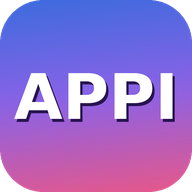
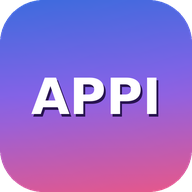
v238 Icono en zona segura: APPI entero en cualquier launcher
- Texto al 68% del ancho: las mascaras agresivas (Moto) ya no cortan la I.
- Regenerados todos los iconos con la misma regla.

Changed region(s): [[0.0625, 0.375, 0.9375, 0.6562]]

diff --git a/index.html b/index.html
@@ -3535,7 +3535,7 @@ body.dark #bootScreen{background:#101322}
     <button class="ds-btn" data-ds="view-grabadora" onclick="openGrabadora()"><span>🎙</span> Grabadora</button>
     <button class="ds-btn" data-ds="view-notas" onclick="showView('view-notas')"><span>📝</span> Notas Keep</button>
   </nav>
-  <div class="ds-foot">APPI · v237 · Solo el nombre</div>
+  <div class="ds-foot">APPI · v238 · Legible en todo launcher</div>
 </aside>
 <!-- Botón flotante para reabrir la barra (cuando está oculta) - oculto, reemplazado por nuevo -->
 <button class="ds-reopen" style="display:none !important" id="dsReopenBtn" onclick="toggleSidebar()" title="Abrir barra lateral" aria-label="Abrir barra lateral">☰</button>

diff --git a/service-worker.js b/service-worker.js
@@ -1,4 +1,4 @@
-const CACHE_NAME = 'appi-v237-solo-el-nombre';
+const CACHE_NAME = 'appi-v238-zona-segura';
 const CACHE_PREFIX = 'appi-';
 const APP_SHELL = [
   './',

diff --git a/README.md b/README.md
@@ -4,7 +4,7 @@ PWA local-first para planificación mensual, presupuesto, equipo, garantías, co
 
 ## Estado actual
 
-- Versión: **v237 · Solo el nombre**.
+- Versión: **v238 · Legible en todo launcher**.
 - Publicación: [https://somospopups.github.io/appi/](https://somospopups.github.io/appi/)
 - Acceso por número de distribuidor y contraseña.
 - Acceso administrador POPUPS mediante el candado, sin DIP ni número de distribuidor.

diff --git a/CAMBIOS_v238.md b/CAMBIOS_v238.md
@@ -1,0 +1,8 @@
+# APPI v238 · Legible en todo launcher
+
+En algunos launchers (p. ej. Moto) la máscara del ícono recorta más que en
+otros y el "APPI" grande se cortaba en la "I".
+
+- El texto ahora ocupa como máximo el 68% del ancho del ícono: entra en la
+  zona segura de máscaras redondas, squircle o cuadradas.
+- Regenerados icon-192/512, maskables y apple-touch con la misma regla.
